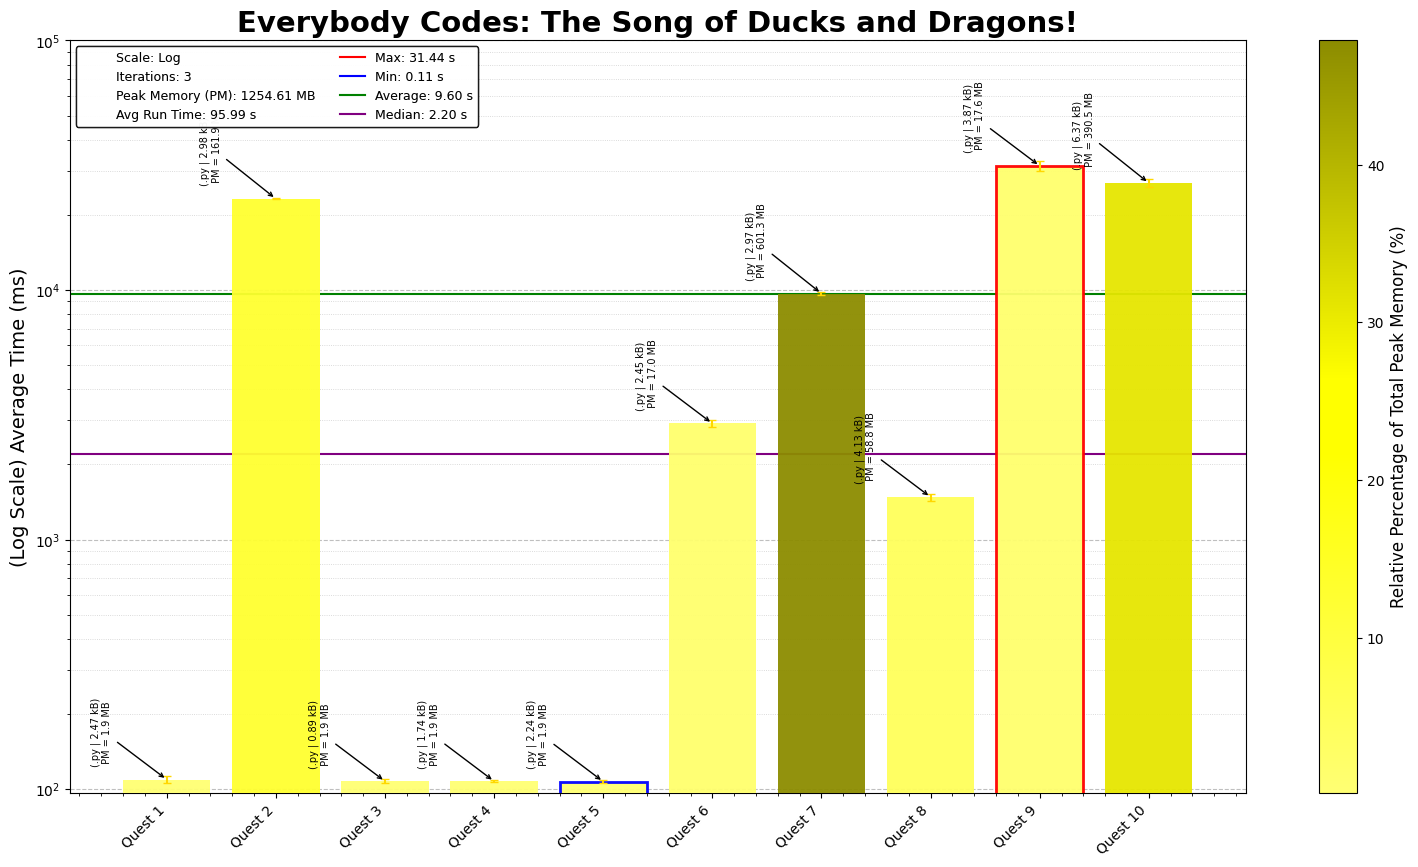
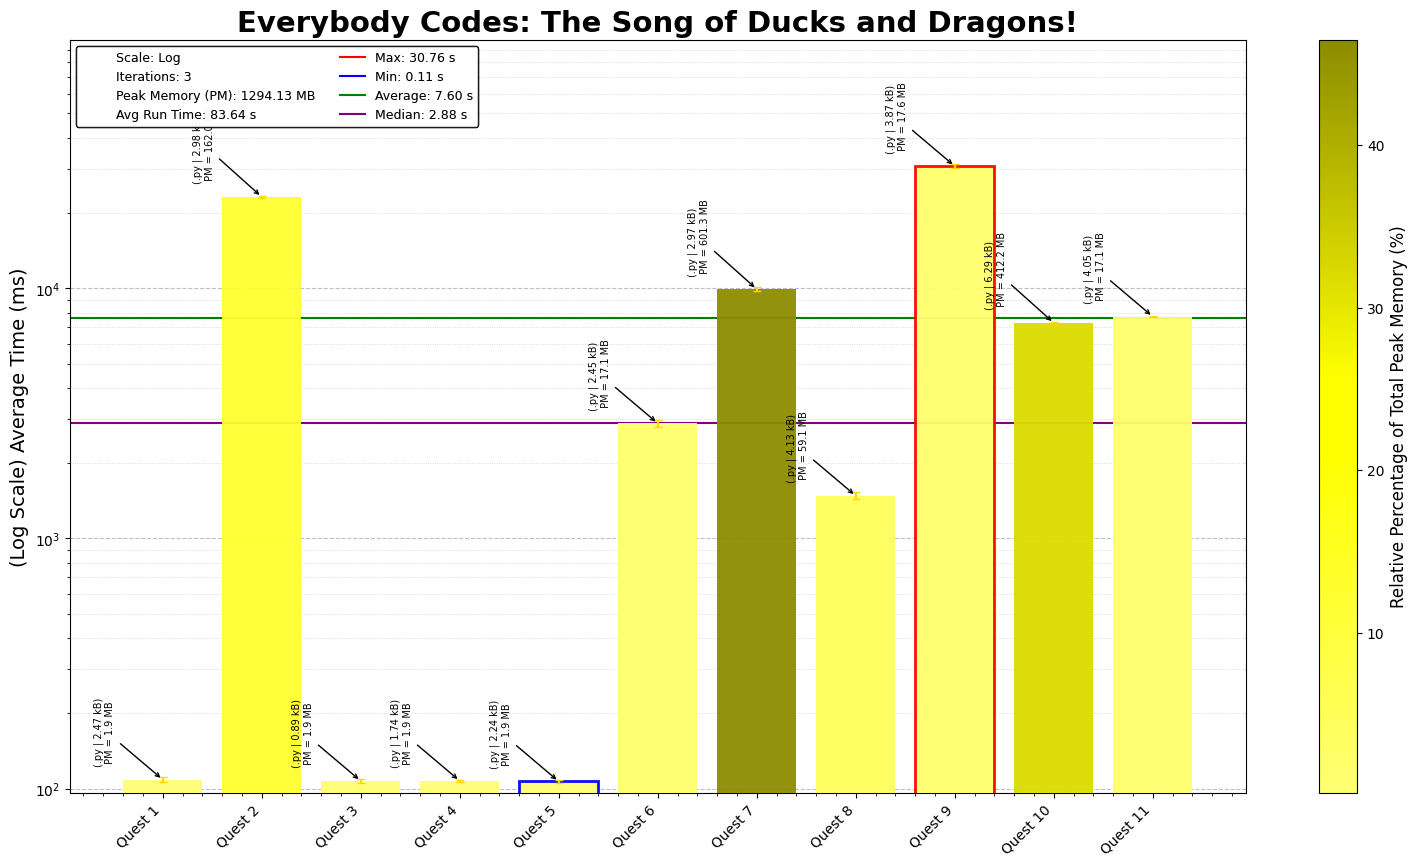
EC 2025 Quest 11: The Scout Duck Protocol

diff --git a/2025/11/2025Day11.py b/2025/11/2025Day11.py
@@ -1,0 +1,107 @@
+"""Everybody Codes - Quest 11, Year 2025
+Solution Started: November 17, 2025
+Puzzle Link: https://everybody.codes/event/2025/quests/11
+Solution by: Abbas Moosajee
+Brief: [The Scout Duck Protocol]"""
+
+#!/usr/bin/env python3
+from pathlib import Path
+import time
+start_time = time.time()
+# List of input file names
+input_files = ["Day11_input_p1.txt", "Day11_input_p2.txt", "Day11_input_p3.txt"]
+
+# Read and split the input data into individual lists
+input_data_p1, input_data_p2, input_data_p3 = [
+    open(Path(__file__).parent / file).read().strip().split('\n')
+    for file in input_files
+]
+
+
+class Ducks:
+    def __init__(self, init_ducks):
+        self.ducks = {
+            idx: int(duck_count)
+            for idx, duck_count in enumerate(init_ducks, start = 1)
+        }
+
+    @staticmethod
+    def calculate_flocksum(ducks_dict):
+        return sum(idx * duck_count for idx, duck_count in ducks_dict.items())
+
+    def first_phase(self, ducks_dict):
+        ducks_moved = False
+        for col_idx in range(1, len(ducks_dict)):
+            next_idx  = col_idx + 1
+            col_ducks, next_ducks = ducks_dict[col_idx], ducks_dict[next_idx]
+            if next_ducks < col_ducks:
+                ducks_moved = True
+                ducks_dict[col_idx] -= 1
+                ducks_dict[next_idx] += 1
+        return ducks_dict, ducks_moved
+
+    def second_phase(self, ducks_dict):
+        ducks_moved = False
+        for col_idx in range(1, len(ducks_dict)):
+            next_idx = col_idx + 1
+            col_ducks, next_ducks = ducks_dict[col_idx], ducks_dict[next_idx]
+
+            if next_ducks > col_ducks:
+                ducks_moved = True
+                ducks_dict[col_idx] += 1
+                ducks_dict[next_idx] -= 1
+
+        return ducks_dict, ducks_moved
+
+    def simulate_rounds(self, total_rounds = 10):
+        first_phase, second_phase = True, False
+        use_ducks = self.ducks.copy()
+        for round in range(1, total_rounds + 1):
+            if first_phase:
+                use_ducks, ducks_moved = self.first_phase(use_ducks)
+                # print("first", round, use_ducks.values(), self.calculate_flocksum(use_ducks))
+                if not ducks_moved:
+                    first_phase = False
+                    second_phase = True
+            if second_phase:
+                use_ducks, ducks_moved = self.second_phase(use_ducks)
+                # print("second", round, use_ducks.values(), self.calculate_flocksum(use_ducks))
+        return self.calculate_flocksum(use_ducks)
+
+    def balance_flock(self, slow_solve = False):
+        first_phase, second_phase, round = True, False, 0
+        use_ducks = self.ducks.copy()
+        while True:
+            if first_phase:
+                use_ducks, ducks_moved = self.first_phase(use_ducks)
+                # print("first", round, use_ducks.values(), self.calculate_flocksum(use_ducks))
+                if not ducks_moved:
+                    first_phase = False
+                    second_phase = True
+            if second_phase:
+                if slow_solve:
+                    use_ducks, ducks_moved = self.second_phase(use_ducks)
+                    # print("second", round, use_ducks.values(), self.calculate_flocksum(use_ducks))
+                    if not ducks_moved:
+                        break
+                else:
+                    second_rounds = self.ascend_solve(use_ducks.values())
+                    round += second_rounds
+                    break
+            round += 1
+        return round
+
+    def ascend_solve(self, use_ducks = None):
+        all_ducks = use_ducks or self.ducks.values()
+        target_val = sum(all_ducks) // len(all_ducks)
+        return sum(abs(target_val - duck) for duck in all_ducks) // 2
+
+ducks_p1 = Ducks(input_data_p1).simulate_rounds()
+print("Quest 11, P1:", ducks_p1)
+
+ducks_p2 = Ducks(input_data_p2).balance_flock(False)
+print("Quest 11, P2:", ducks_p2)
+
+ducks_p3 = Ducks(input_data_p3).ascend_solve()
+print("Quest 11, P3:", ducks_p3)
+# print(f"Execution Time: {time.time() - start_time:5f}s")

diff --git a/2025/10/2025Day10.py b/2025/10/2025Day10.py
@@ -144,9 +144,7 @@ class DragonChess:
                     sheep_moved = True
                     continue
                 if (sr + 1, sc) != position or self.board[(sr + 1, sc)] == '#':
-                    new_sheeps = deepcopy(sheeps)
-                    new_sheeps.remove(sheep)
-                    new_sheeps.add((sr + 1, sc))
+                    new_sheeps = (sheeps - {sheep}) | {(sr + 1, sc)}
                     sheep_moved = True
                     res += self.tournament(position, new_sheeps, False)
             if not sheep_moved:

diff --git a/2025/README_2025.md b/2025/README_2025.md
@@ -16,3 +16,4 @@ This repository contains coding solutions for the 2025 Everybody Codes. Each day
 8. **Day 8 - The Art of Connection**: Not a bad puzzle overall but geometry is really annoying
 9. **Day 9 - Encoded in the Scales**: Compare strings to calculate similarity, and build family trees. *Improve P3*
 10: **Day 10 - Feast on the Board**: Dragon Chess, all the good maze algorithms at once what more could one ask for
+11 **ay 11 - The Scout Duck Protocol**: Is it an elegant solution, no but it works so yk all's good.
